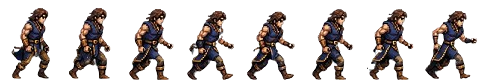
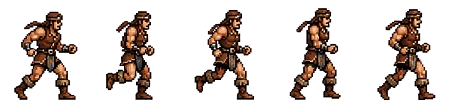
new sprite

diff --git a/Jugador.js b/Jugador.js
@@ -1,3 +1,138 @@
+class EscenaSidescroller extends Phaser.Scene {
+    constructor() {
+        super({ key: 'EscenaSidescroller' });
+    }
+
+    init(data) {
+        this.vidaActual = data.vidaHeredada || 100;
+        this.vidaMaxima = 100;
+    }
+
+    preload() {
+        this.load.image('fondo_l2', 'background/fondo_l2.png');   
+        this.load.image('fondo_l21', 'background/fondo_l21.png'); 
+        
+        // CORREGIDO: Ahora Phaser recorta el nuevo Benedict con sus medidas reales de 90x100
+        this.load.spritesheet('benedict_walk', 'assets/benedict_walk.png', { 
+            frameWidth: 90, 
+            frameHeight: 100 
+        });
+        
+        this.load.spritesheet('benedict_attack', 'assets/benedict_attack.png', { 
+            frameWidth: 164, 
+            frameHeight: 80 
+        });
+    }
+
+    create() {
+        // 1. DIMENSIONES DEL MUNDO
+        this.physics.world.setBounds(0, 0, 12800, 600);
+
+        // 2. PARALLAX
+        this.fondoHorizontal = this.add.tileSprite(0, 0, 800, 600, 'fondo_l2');
+        this.fondoHorizontal.setOrigin(0, 0).setScrollFactor(0).setDepth(-3);
+
+        this.capaNubes = this.add.tileSprite(0, 0, 800, 600, 'fondo_l21');
+        this.capaNubes.setOrigin(0, 0).setScrollFactor(0).setDepth(-2);
+
+        // 3. FABRICACIÓN DE ANIMACIONES (Sincronizadas con tus 5 frames actuales)
+        this.anims.create({
+            key: 'caminar_benedict',
+            frames: this.anims.generateFrameNumbers('benedict_walk', { start: 0, end: 4 }),
+            frameRate: 10, 
+            repeat: -1
+        });
+
+        this.anims.create({
+            key: 'quieto_benedict',
+            frames: [{ key: 'benedict_walk', frame: 0 }], 
+            frameRate: 1
+        });
+
+        this.anims.create({
+            key: 'latigazo_benedict',
+            frames: this.anims.generateFrameNumbers('benedict_attack', { start: 0, end: 3 }),
+            frameRate: 15, 
+            repeat: 0      
+        });
+
+        // 4. GRUPO DE PLATAFORMAS
+        this.plataformas = this.physics.add.staticGroup();
+
+        this.crearPisoSólido(0, 1500); 
+        this.crearPisoSólido(1800, 4150); 
+        this.crearPisoSólido(4450, 8000); 
+        this.crearPisoSólido(8500, 12800);
+
+        // ARQUITECTURA MODIFICADA
+        this.crearMuroLadrillos(800, 495, 60, 110); 
+        this.crearPlataformaFlotante(1650, 460, 120, 20); 
+        this.crearPlataformaFlotante(2300, 480, 150, 20); 
+        this.crearMuroLadrillos(2500, 450, 50, 200);      
+        this.crearPlataformaFlotante(2500, 350, 200, 20); 
+
+        this.crearPlataformaFlotante(4220, 470, 90, 20); 
+        this.crearPlataformaFlotante(4300, 440, 90, 20); 
+        this.crearPlataformaFlotante(4380, 470, 90, 20); 
+
+        this.crearMuroLadrillos(6000, 510, 40, 90);
+        this.crearMuroLadrillos(6300, 470, 120, 160); 
+        this.crearMuroLadrillos(6600, 510, 40, 90);
+
+        // 5. JUGADOR (Ajustado el Y para que aparezca bien plantado debido al nuevo tamaño)
+        this.jugador = new Jugador(this, 100, 480);
+
+        // 6. CÁMARA
+        this.cameras.main.setBounds(0, 0, 12800, 600);
+        this.cameras.main.startFollow(this.jugador, true, 0.1, 0.1);
+
+        // 7. COLISIONES
+        this.physics.add.collider(this.jugador, this.plataformas);
+        
+        this.add.text(50, 50, 'NIVEL 2: SIDESCROLLER', { fontSize: '20px', fill: '#00ffff', fontWeight: 'bold' }).setScrollFactor(0);
+        this.add.text(12500, 450, '🏁 META', { fontSize: '24px', fill: '#ffff00', fontWeight: 'bold' });
+    }
+
+    update() {
+        if (this.jugador && this.jugador.active) {
+            this.jugador.update(); 
+        }
+
+        this.fondoHorizontal.tilePositionX = this.cameras.main.scrollX * 0.2;
+        this.capaNubes.tilePositionX = this.cameras.main.scrollX * 0.55;
+
+        if (this.jugador.y > 620) {
+            this.scene.start('EscenaSidescroller', { vidaHeredada: this.vidaActual });
+        }
+
+        if (this.jugador.x >= 12600) {
+            this.jugador.body.setVelocity(0, 0);
+            this.add.text(this.cameras.main.scrollX + 200, 250, '¡NIVEL COMPLETADO!', { fontSize: '40px', fill: '#00ff00', fontWeight: 'bold' });
+            this.physics.world.shutdown();
+        }
+    }
+
+    crearPisoSólido(inicioX, finX) {
+        let ancho = finX - inicioX;
+        let centroX = inicioX + (ancho / 2);
+        let bloquePiso = this.add.rectangle(centroX, 580, ancho, 32, 0x00ff00);
+        this.plataformas.add(bloquePiso);
+        bloquePiso.body.updateFromGameObject();
+    }
+
+    crearPlataformaFlotante(x, y, ancho, alto) {
+        let plat = this.add.rectangle(x, y, ancho, alto, 0x00ff00);
+        this.plataformas.add(plat);
+        plat.body.updateFromGameObject();
+    }
+
+    crearMuroLadrillos(x, y, ancho, alto) {
+        let muro = this.add.rectangle(x, y, ancho, alto, 0xaaaaaa);
+        this.plataformas.add(muro);
+        muro.body.updateFromGameObject();
+    }
+}
+
 class Jugador extends Phaser.Physics.Arcade.Sprite {
     constructor(scene, x, y) {
         super(scene, x, y, 'benedict_walk');
@@ -10,25 +145,21 @@ class Jugador extends Phaser.Physics.Arcade.Sprite {
         this.body.setCollideWorldBounds(true);
         this.body.setGravityY(600); 
 
-        // Mantenemos la caja de colisión del cuerpo base
-        this.body.setSize(35, 75);
-        this.body.setOffset(12, 5);
+        // CORREGIDO: Caja física calibrada para el tamaño de 90x100
+        this.body.setSize(40, 95);  
+        this.body.setOffset(25, 5);
 
         this.vidaMaxima = 100;
         this.vidaActual = 100;
         this.jugadorCayendo = false;
         this.alturaInicioCaida = 0;
-
-        // NUEVA VARIABLE: Para saber si está en medio de la animación del látigo
         this.estaAtacando = false;
 
         this.teclas = this.escena.input.keyboard.createCursorKeys();
-        // Agregamos la barra espaciadora para el ataque
         this.teclaEspacio = this.escena.input.keyboard.addKey(Phaser.Input.Keyboard.KeyCodes.SPACE);
     }
 
     update() {
-        // FRENO DE ATAQUE: Si está tirando el latigazo, no se puede mover ni saltar
         if (this.estaAtacando) {
             return; 
         }
@@ -67,15 +198,11 @@ class Jugador extends Phaser.Physics.Arcade.Sprite {
             this.body.setVelocityY(this.body.velocity.y * 0.4); 
         }
 
-        // NUEVA MECÁNICA: DISPARAR LATIGAZO CON ESPACIO (CORREGIDO EL DESFASAJE)
+        // LATIGAZO CON ESPACIO
         if (Phaser.Input.Keyboard.JustDown(this.teclaEspacio) && (this.body.blocked.down || this.body.touching.down)) {
-            this.body.setVelocityX(0); // Lo clavamos al piso
+            this.body.setVelocityX(0); 
             this.estaAtacando = true;
 
-            // --- TRUCO DE COMPENSACIÓN DE EJE ---
-            // Desplazamos el origen horizontal para que el cuerpo se quede quieto y el látigo sume espacio hacia adelante.
-            // Si mira a la derecha (flipX = false), el origen se mueve a la izquierda (0.25). 
-            // Si mira a la izquierda (flipX = true), se mueve a la derecha (0.75).
             if (this.flipX) {
                 this.setOrigin(0.75, 0.5);
             } else {
@@ -84,10 +211,9 @@ class Jugador extends Phaser.Physics.Arcade.Sprite {
 
             this.anims.play('latigazo_benedict');
 
-            // Cuando la animación del latigazo termine, reseteamos el eje y desbloqueamos
             this.once('animationcomplete', (anim) => {
                 if (anim.key === 'latigazo_benedict') {
-                    this.setOrigin(0.5, 0.5); // Volvemos al centro perfecto para caminar
+                    this.setOrigin(0.5, 0.5); 
                     this.estaAtacando = false;
                 }
             });

diff --git a/index.html b/index.html
@@ -5,24 +5,22 @@
     <meta name="viewport" content="width=device-width, initial-scale=1.0">
     <title>Testeo de Torre - Phaser</title>
 
-    <!-- Primero Phaser -->
     <script src="https://cdn.jsdelivr.net/npm/phaser@3.60.0/dist/phaser-arcade-physics.min.js"></script>
 
-    <!-- Moldes de los objetos -->
-    <script src="Jugador.js"></script>
-    <script src="ObjetoPinche.js"></script>
-    <!-- Carpeta de Escenas -->
-    <script src="scenes/EscenaPrincipal.js"></script>
-    <script src="scenes/EscenaBoss.js"></script>
-    <script src="scenes/EscenaSidescroller.js"></script>
-
-    <script src="juego.js"></script>
-    <!-- Carpeta de Enemigos -->
     <script src="enemigos/Enemigo.js"></script>
     <script src="enemigos/EnemigoTorreta.js"></script>
     <script src="enemigos/EnemigoKamikaze.js"></script> 
     <script src="enemigos/EnemigoLanzallamas.js"></script> 
     <script src="enemigos/EnemigoCalavera.js"></script>
+
+    <script src="Jugador.js"></script>
+    <script src="ObjetoPinche.js"></script>
+
+    <script src="scenes/EscenaPrincipal.js"></script>
+    <script src="scenes/EscenaBoss.js"></script>
+    <script src="scenes/EscenaSidescroller.js"></script>
+
+    <script src="juego.js"></script>
 </head>
 <body>
 </body>

diff --git a/scenes/EscenaSidescroller.js b/scenes/EscenaSidescroller.js
@@ -34,16 +34,18 @@ class EscenaSidescroller extends Phaser.Scene {
         this.capaNubes.setOrigin(0, 0).setScrollFactor(0).setDepth(-2);
 
         // 3. FABRICACIÓN DE ANIMACIONES (Para que las use el nuevo Jugador.js)
+        // --- ACTUALIZACIÓN DE ANIMACIONES PARA EL NUEVO SPRITE ---
         this.anims.create({
             key: 'caminar_benedict',
-            frames: this.anims.generateFrameNumbers('benedict_walk', { start: 0, end: 7 }),
-            frameRate: 12,
+            // Ahora va del frame 0 al 4 (los 5 cuadros del archivo)
+            frames: this.anims.generateFrameNumbers('benedict_walk', { start: 0, end: 4 }),
+            frameRate: 10, // Bajamos a 10 para que no se vea tan acelerado con menos frames
             repeat: -1
         });
 
         this.anims.create({
             key: 'quieto_benedict',
-            frames: [{ key: 'benedict_walk', frame: 0 }],
+            frames: [{ key: 'benedict_walk', frame: 0 }], // Se queda parado en el primer cuadro
             frameRate: 1
         });
 
